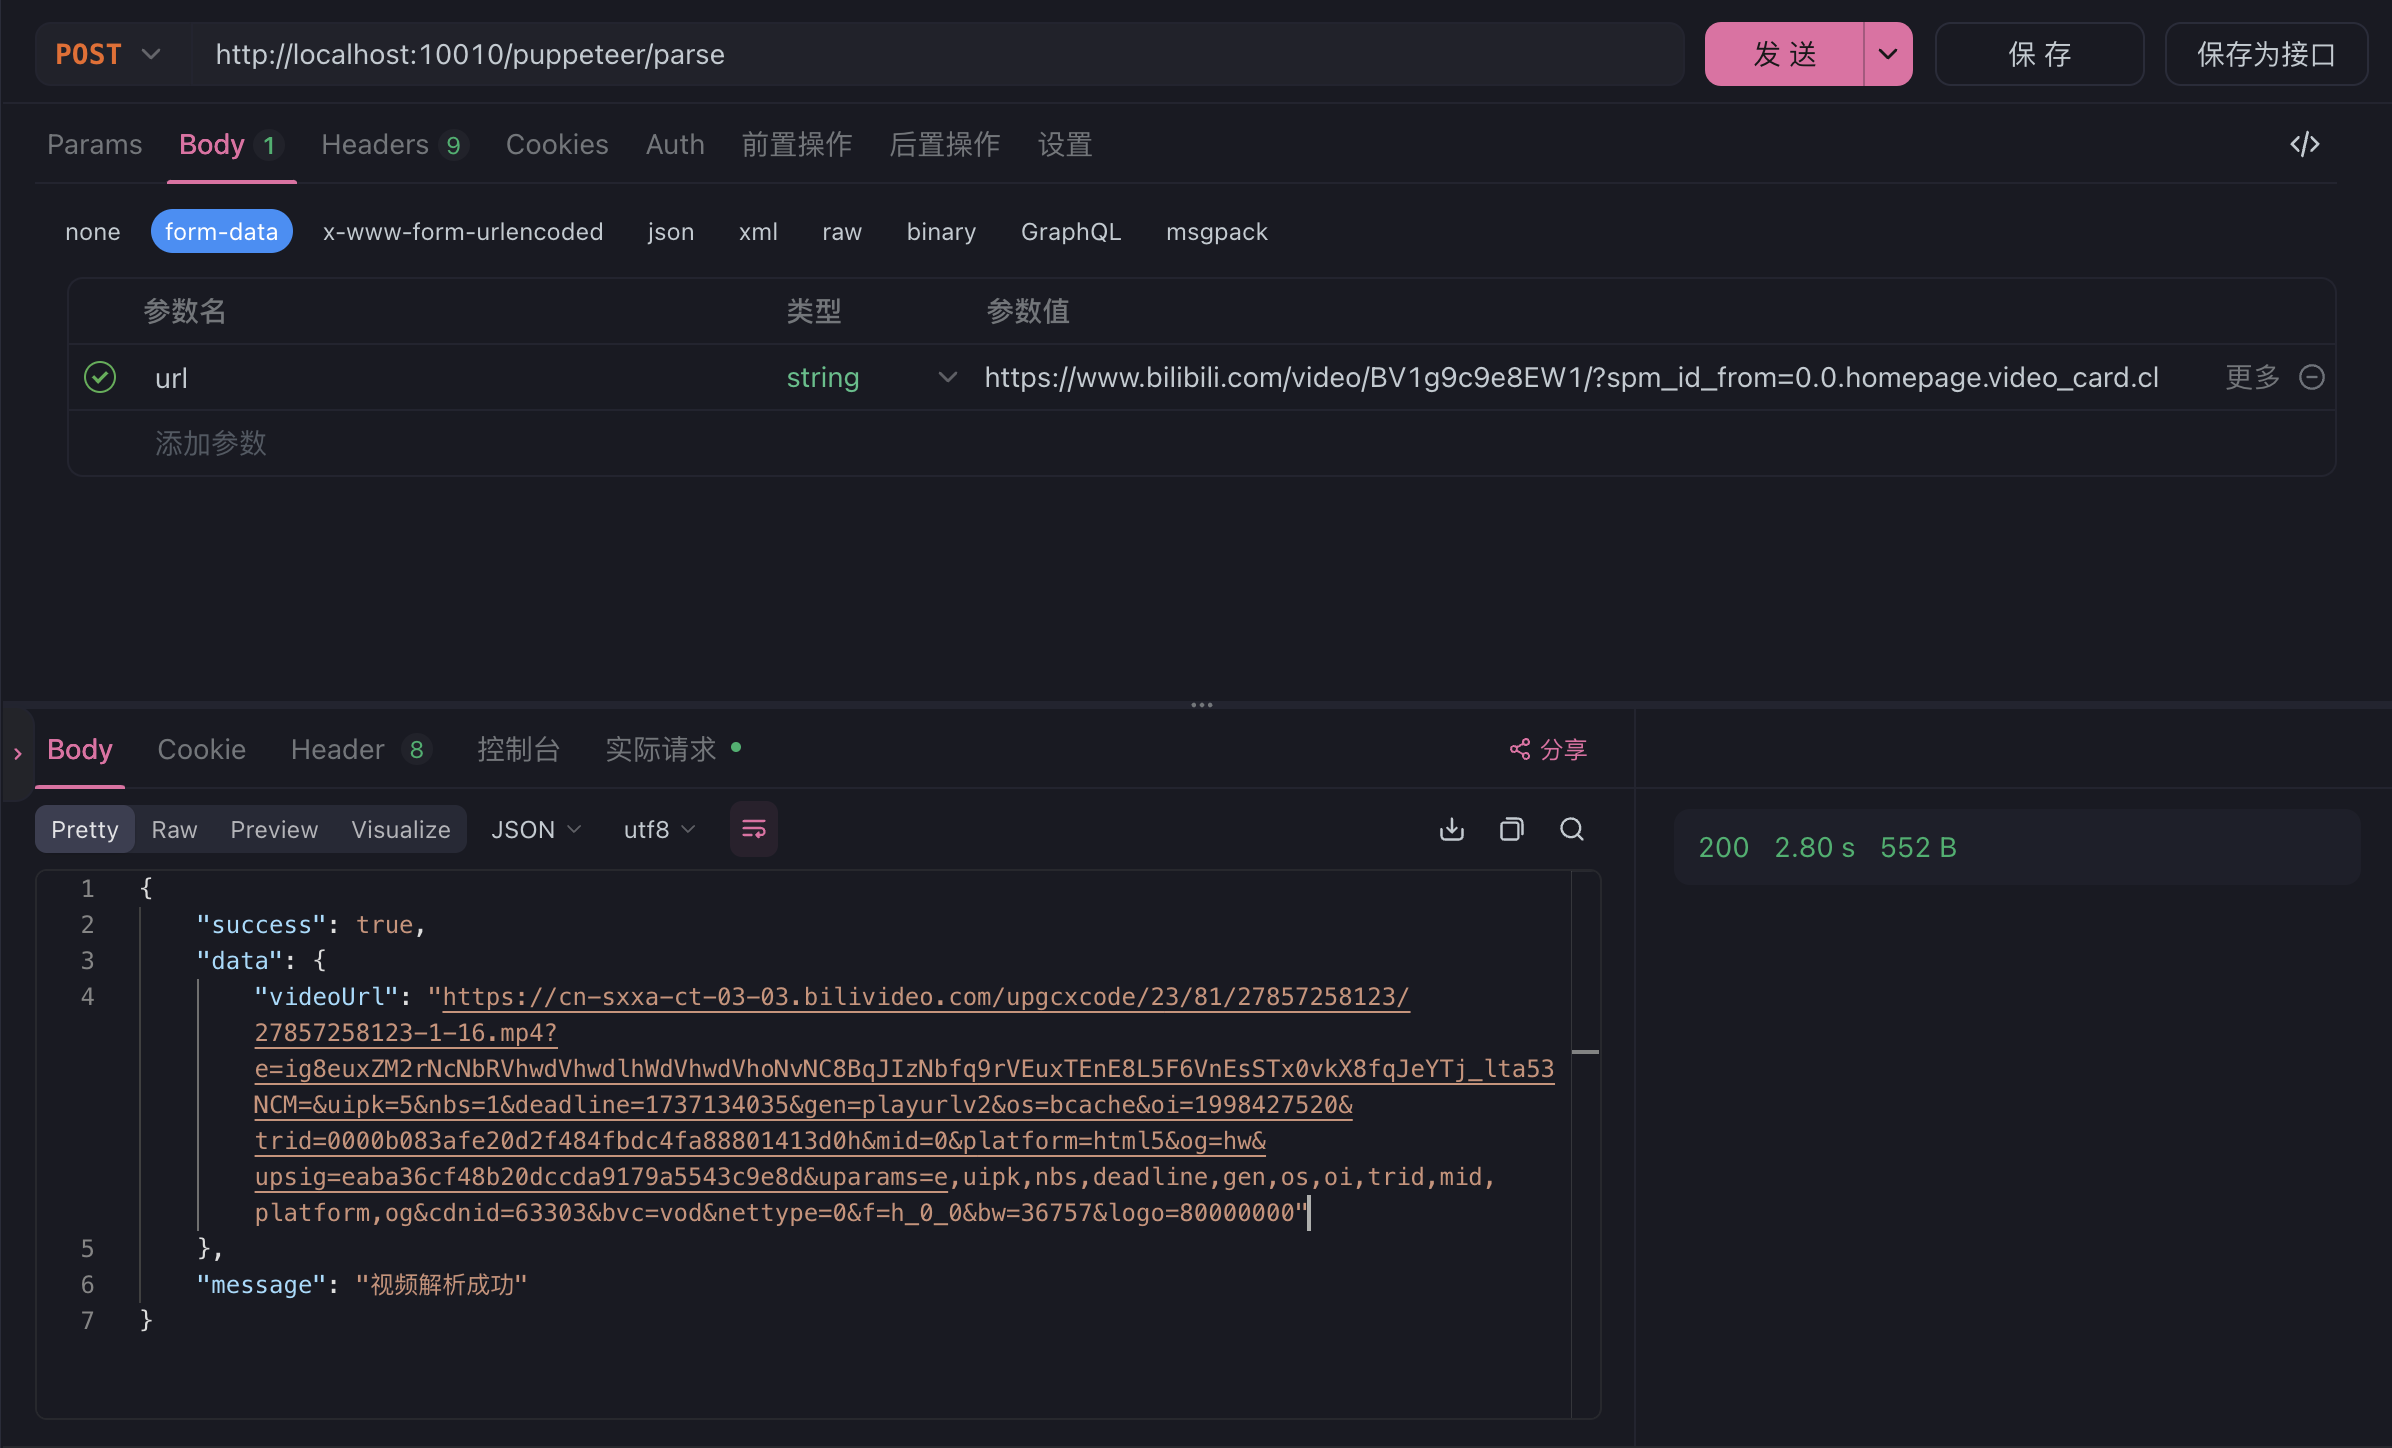
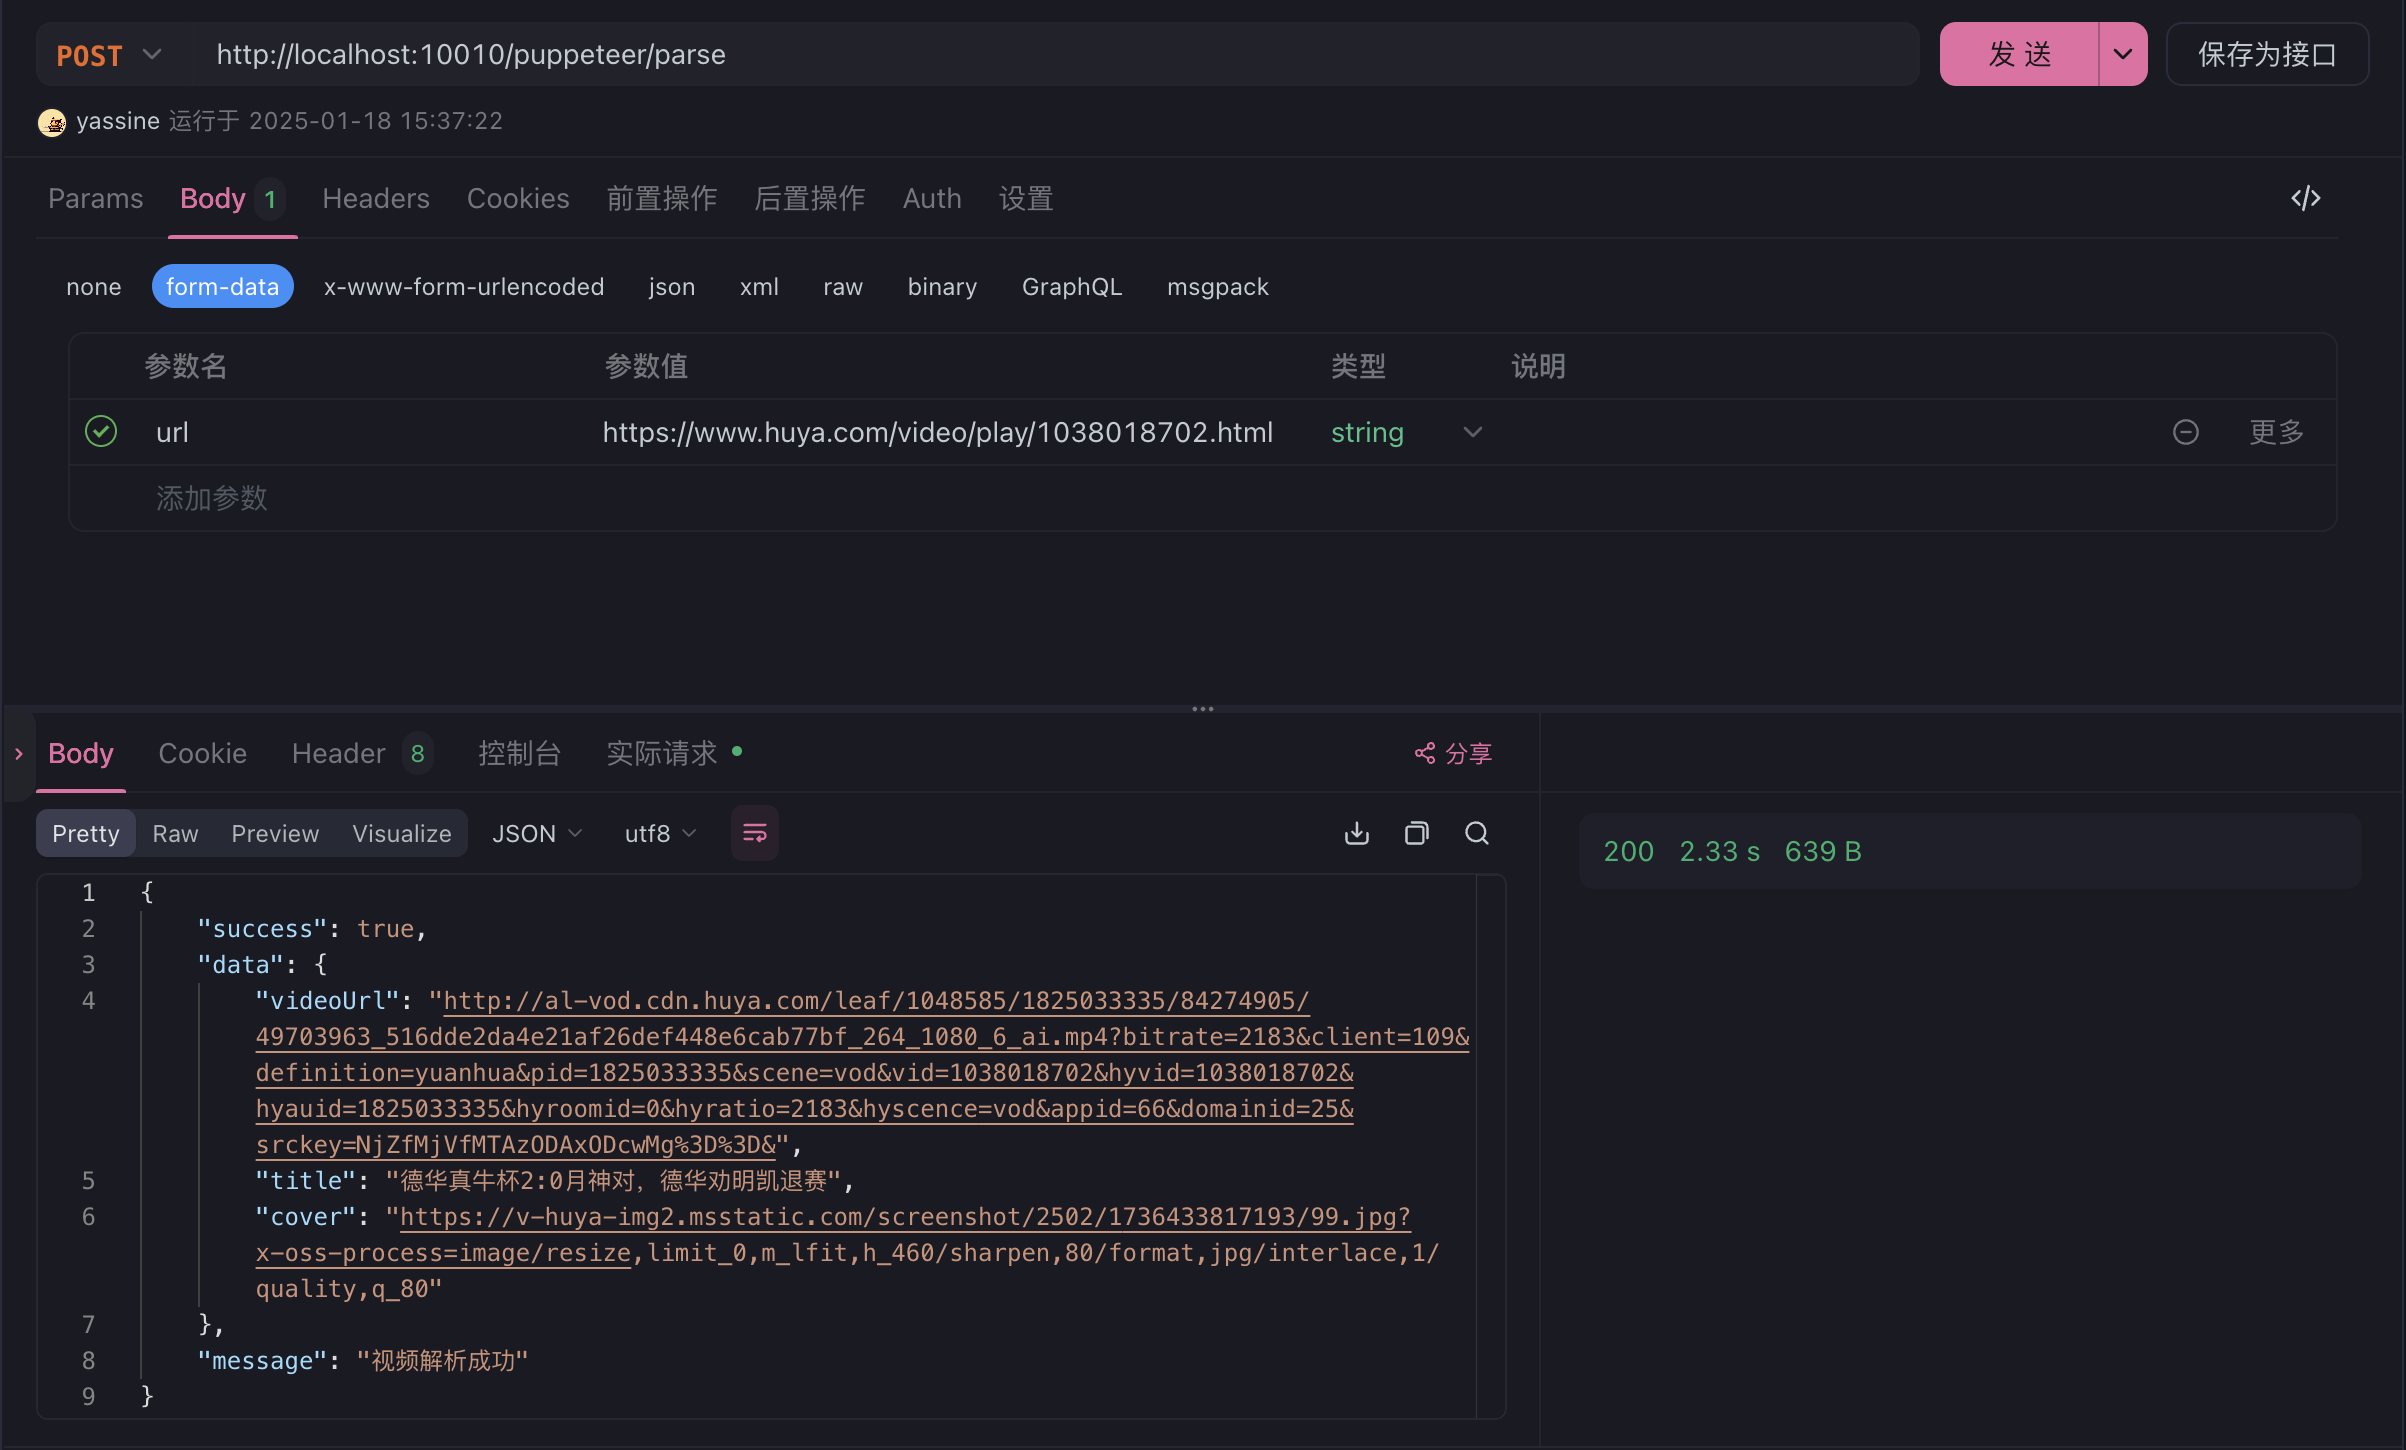
1.18 优化事项 [refactor]: 新增短视频解析接口的响应列 [docs]: 更新文档 [feat]: 编写dockerfile镜像文件

diff --git a/src/controllers/puppeteer/parseVideo.ts b/src/controllers/puppeteer/parseVideo.ts
@@ -5,10 +5,18 @@ interface ParseVideoBody {
   url: string;
 }
 
+interface ParseResult {
+  title: string;
+  videoUrl: string | null;
+  cover: string;
+}
+
 export async function parseVideo({
   body,
   set,
-}: ItcoxTypes.ContextPro): Promise<ApiResponse<{ videoUrl: string }>> {
+}: ItcoxTypes.ContextPro): Promise<
+  ApiResponse<{ videoUrl: string; title: string; cover: string }>
+> {
   let browser;
   try {
     const { url } = body as ParseVideoBody;
@@ -56,41 +64,53 @@ export async function parseVideo({
 
     // 等待结果出现
     // console.log("等待面板出现...");
-    await page.waitForSelector("div#parsingpanel", { timeout: 10000 });
+    await page.waitForSelector("div#parsingpanel", { timeout: 3000 });
     // console.log("面板已出现");
 
     // 等待并获取结果
-    // console.log("开始轮询检查结果...");
-    const videoUrl = await page.evaluate(() => {
-      return new Promise((resolve) => {
+    console.log("开始轮询检查结果...");
+    const result = await page.evaluate(() => {
+      return new Promise<ParseResult>((resolve) => {
         let attempts = 0;
         const maxAttempts = 10;
 
         const checkInterval = setInterval(() => {
           attempts++;
           const lis = document.querySelectorAll("#parsingpanel li");
-          const lastLi = lis[lis.length - 1]; // 获取最后一个li
 
-          if (lastLi?.textContent?.includes("视频链接")) {
-            const link = lastLi.querySelector("a.layui-badge-rim");
-            clearInterval(checkInterval);
-            resolve(link?.getAttribute("href") || null);
+          if (lis.length >= 3) {
+            // 确保至少有三个li元素
+            const titleLi = lis[0];
+            const coverLi = lis[1];
+            const videoLi = lis[lis.length - 1];
+
+            const title = titleLi?.textContent?.split("：")[1]?.trim() || "";
+            const cover =
+              coverLi?.querySelector("a")?.getAttribute("href") || "";
+
+            if (videoLi?.textContent?.includes("视频链接")) {
+              const link = videoLi.querySelector("a.layui-badge-rim");
+              const videoUrl = link?.getAttribute("href") || null;
+
+              clearInterval(checkInterval);
+              resolve({ title, videoUrl, cover });
+            }
           }
 
           if (attempts >= maxAttempts) {
             clearInterval(checkInterval);
-            resolve(null);
+            resolve({ title: "", videoUrl: null, cover: "" });
           }
-        }, 1000);
+        }, 200);
       });
     });
-    console.log("获取到的视频链接:", videoUrl);
+    console.log("获取到的结果:", result);
 
-    if (!videoUrl) {
+    if (!result.videoUrl) {
       set.status = 400;
       return {
         success: false,
-        data: { videoUrl: "" },
+        data: { videoUrl: "", title: "", cover: "" },
         message: "解析失败，未找到视频链接",
         errorCode: 1201,
       };
@@ -98,7 +118,11 @@ export async function parseVideo({
 
     return {
       success: true,
-      data: { videoUrl: videoUrl as string },
+      data: {
+        videoUrl: result.videoUrl,
+        title: result.title,
+        cover: result.cover,
+      },
       message: "视频解析成功",
     };
   } catch (error) {
@@ -106,7 +130,7 @@ export async function parseVideo({
     set.status = 500;
     return {
       success: false,
-      data: { videoUrl: "" },
+      data: { videoUrl: "", title: "", cover: "" },
       message: error instanceof Error ? error.message : "服务器内部错误",
       errorCode: 1202,
     };

diff --git a/DEPLOYMENT.md b/DEPLOYMENT.md
@@ -1,0 +1,127 @@
+# 部署指南
+
+本文档详细说明了如何部署和运行视频解析服务。
+
+## 环境要求
+
+- Node.js >= 18
+- Bun >= 1.0.0
+- Docker (可选)
+
+## 本地开发部署
+
+1. 克隆项目
+
+```bash
+git clone <repository-url>
+cd video-parser
+```
+
+2. 安装依赖
+
+```bash
+bun install
+```
+
+3. 配置环境变量
+
+```bash
+# 编辑环境变量
+vim .env.development
+vim .env.production
+```
+
+4. 运行开发服务器
+
+```bash
+bun run dev
+```
+
+5. 运行生产服务器
+
+```bash
+bun run start
+```
+
+## Docker 部署
+
+1. 构建 Docker 镜像
+
+```bash
+docker build -t video-parser .
+```
+
+2. 运行容器
+
+```bash
+docker run -d \
+  -p 3000:3000 \
+  --name video-parser \
+  video-parser
+```
+
+3. 查看容器日志
+
+```bash
+docker logs -f video-parser
+```
+
+## 环境变量说明
+
+必需的环境变量：
+
+- `PORT`: 服务器端口号（默认：3000）
+- `NODE_ENV`: 环境模式 (development/production)
+
+## 注意事项
+
+1. Puppeteer 相关
+
+- Docker 环境中使用了 Alpine 的 Chromium
+- 已配置所需的中文字体和依赖
+- 无需额外安装 Chromium
+
+2. 性能优化
+
+- 建议使用 PM2 或类似工具进行进程管理
+- 可配置 Nginx 进行反向代理
+
+3. 安全建议
+
+- 建议配置请求频率限制
+- 建议启用 CORS 保护
+- 生产环境需配置 SSL 证书
+
+## 故障排除
+
+1. 如果遇到 Chromium 启动失败：
+
+```bash
+# 检查 Chromium 是否正确安装
+docker exec -it video-parser which chromium-browser
+```
+
+2. 如果遇到中文显示问题：
+
+```bash
+# 确认字体文件是否存在
+docker exec -it video-parser ls /usr/share/fonts
+```
+
+## 更新维护
+
+1. 更新代码
+
+```bash
+git pull
+bun install
+```
+
+2. 更新 Docker 镜像
+
+```bash
+docker build -t video-parser:latest .
+docker stop video-parser
+docker rm video-parser
+docker run -d -p 3000:3000 --name video-parser video-parser:latest
+```

diff --git a/README.md b/README.md
@@ -12,6 +12,7 @@
 
 - 支持抖音、快手等主流短视频平台
 - 自动提取视频原始地址
+- 获取视频标题和封面图
 - 快速获取高清视频下载链接
 - 支持批量解析（开发中）
 
@@ -34,7 +35,9 @@ Content-Type: application/json
 {
   "success": true,
   "data": {
-    "videoUrl": "https://xxx.com/video.mp4"
+    "videoUrl": "https://xxx.com/video.mp4",
+    "title": "这是视频标题",
+    "cover": "https://xxx.com/cover.jpg"
   },
   "message": "视频解析成功"
 }
@@ -46,7 +49,9 @@ Content-Type: application/json
 {
   "success": false,
   "data": {
-    "videoUrl": ""
+    "videoUrl": "",
+    "title": "",
+    "cover": ""
   },
   "message": "解析失败，未找到视频链接",
   "errorCode": 1201
@@ -58,6 +63,7 @@ Content-Type: application/json
 - 解析速度快：通常在3-5秒内完成解析
 - 稳定可靠：采用先进的浏览器自动化技术
 - 高清原片：提供最高质量的视频源链接
+- 完整信息：同时获取视频标题和封面图
 - 使用简单：仅需提供视频分享链接即可解析
 
 ## 开始使用
@@ -67,7 +73,7 @@ Content-Type: application/json
 3. 启动服务
 4. 调用API
 
-详细的安装和配置说明请参考下方使用文档。
+详细的安装和配置说明请参考 [部署文档](./DEPLOYMENT.md)。
 
 ## 注意事项
 
@@ -80,4 +86,3 @@ Content-Type: application/json
 如有任何问题或建议，请随时联系我们：
 
 - 邮箱：support@itcox.cn
-- 网站：https://www.itcox.cn
